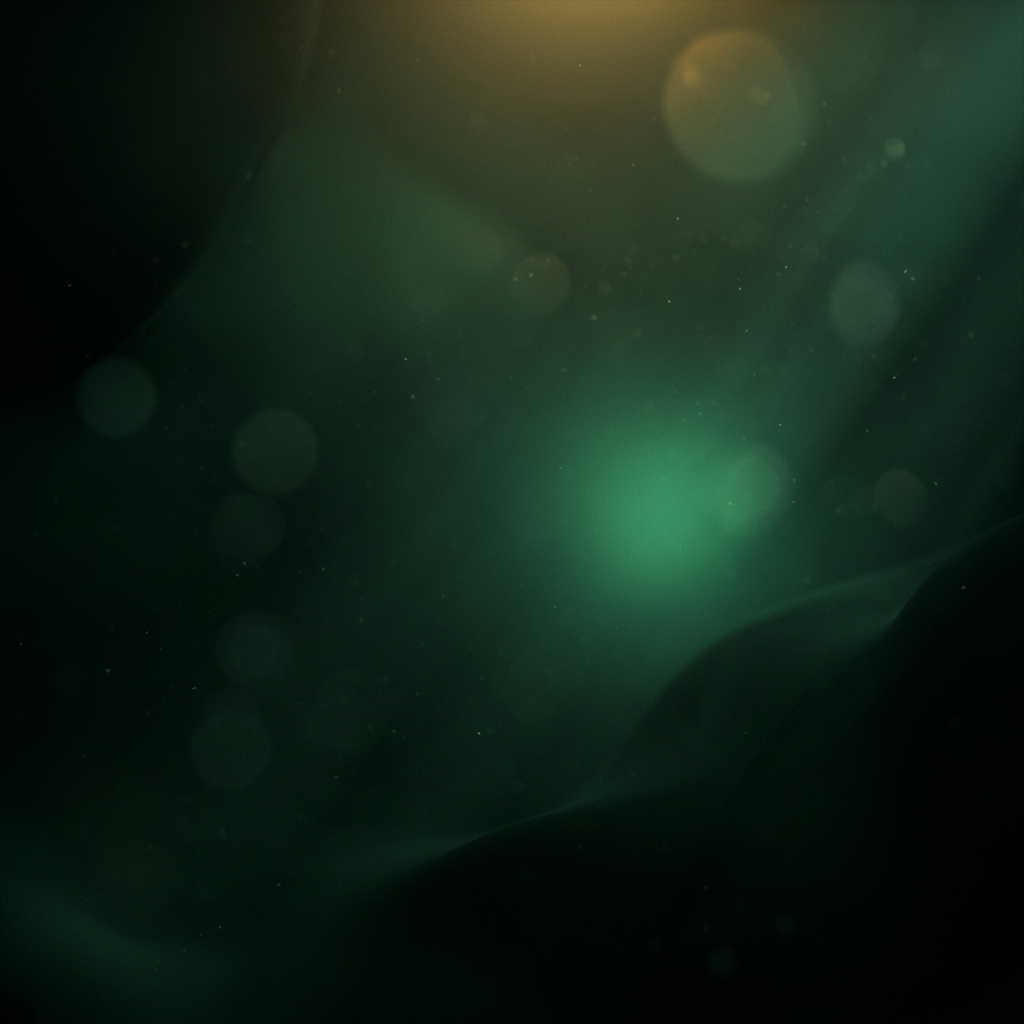
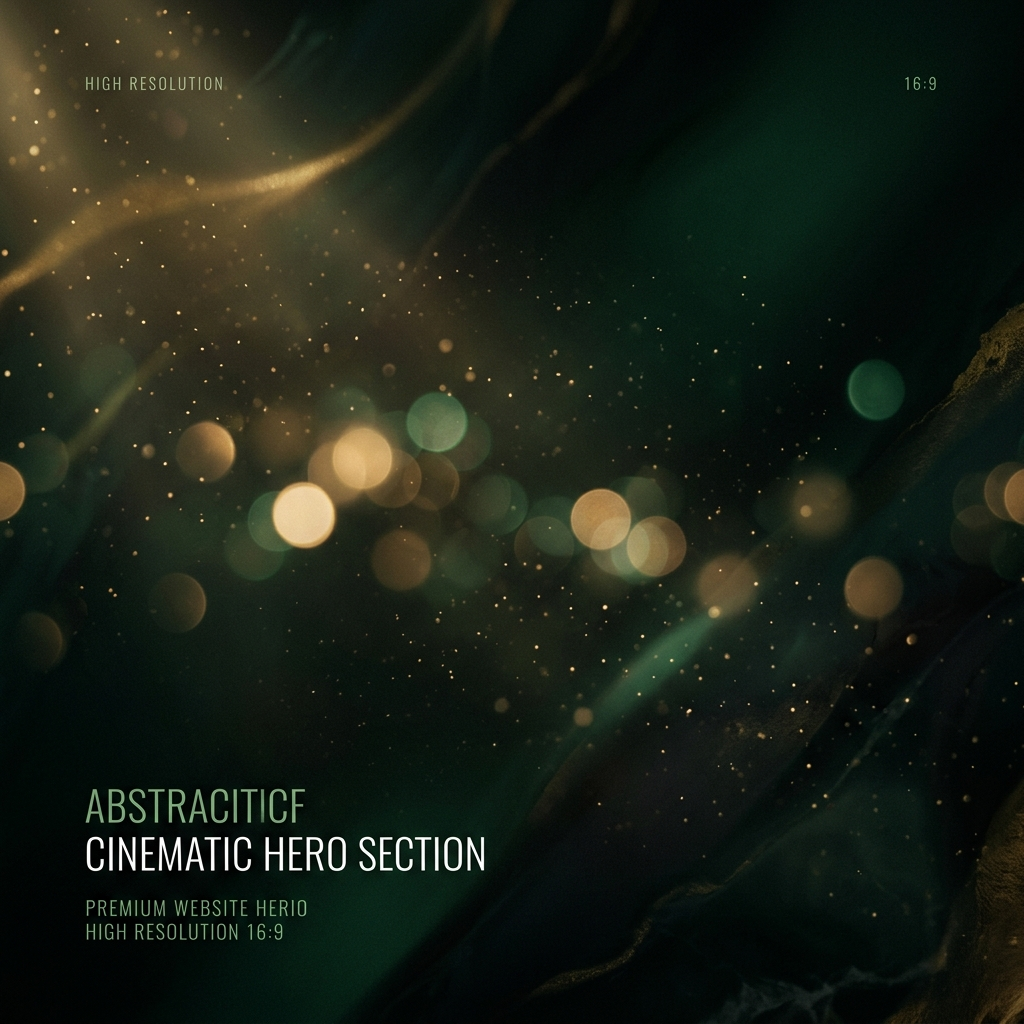
feat: translate category pages to EN and optimize mobile hero section + regenerate background

diff --git a/app/page.tsx b/app/page.tsx
@@ -78,10 +78,10 @@ export default async function HomePage() {
             <p className="mt-7 text-emerald-50/55 text-lg sm:text-xl font-medium leading-relaxed max-w-lg">
               {t.heroSubtitle}
             </p>
-            <div className="mt-9 flex flex-wrap items-center gap-3">
+            <div className="mt-9 flex flex-col sm:flex-row items-stretch sm:items-center gap-3.5">
               <a
                 href="#bestsellers"
-                className="group inline-flex items-center gap-2 bg-emerald-500 hover:bg-emerald-400 text-[#06120c] font-rubik font-black px-8 py-4 rounded-full shadow-lg shadow-emerald-500/20 transition-all hover:-translate-y-0.5 active:translate-y-0 cursor-pointer"
+                className="group inline-flex items-center justify-center gap-2 bg-emerald-500 hover:bg-emerald-400 text-[#06120c] font-rubik font-black px-8 py-4 rounded-full shadow-lg shadow-emerald-500/20 transition-all hover:-translate-y-0.5 active:translate-y-0 cursor-pointer text-center"
               >
                 {t.heroCtaPrimary}
                 <svg viewBox="0 0 24 24" fill="none" className="w-5 h-5 transition-transform group-hover:translate-x-1" stroke="currentColor" strokeWidth="2.5" strokeLinecap="round" strokeLinejoin="round">
@@ -90,14 +90,14 @@ export default async function HomePage() {
               </a>
               <Link
                 href="/bestsellers"
-                className="inline-flex items-center gap-2 text-white/85 font-bold px-7 py-4 rounded-full ring-1 ring-white/15 bg-white/5 backdrop-blur-sm hover:bg-white/10 transition-colors cursor-pointer"
+                className="inline-flex items-center justify-center gap-2 text-white/85 font-bold px-7 py-4 rounded-full ring-1 ring-white/15 bg-white/5 backdrop-blur-sm hover:bg-white/10 transition-colors cursor-pointer text-center"
               >
                 {t.heroCtaSecondary}
               </Link>
             </div>
 
             {/* Trust row */}
-            <div className="mt-10 flex items-center gap-6 sm:gap-8">
+            <div className="mt-10 flex items-center justify-between sm:justify-start gap-4 sm:gap-8">
               <div>
                 <p className="text-2xl font-rubik font-black text-white">120+</p>
                 <p className="text-xs text-emerald-100/50 font-bold uppercase tracking-wider">{t.trustProducts}</p>
@@ -120,19 +120,19 @@ export default async function HomePage() {
 
           {/* Right — featured product with glow + annotations */}
           {featured && (
-            <div className="relative hidden lg:block h-[540px]">
+            <div className="relative flex items-center justify-center lg:block h-[320px] sm:h-[420px] lg:h-[540px] mt-8 lg:mt-0 w-full max-w-[400px] lg:max-w-none mx-auto">
               {/* Neon ring glow */}
-              <div className="absolute left-1/2 top-1/2 -translate-x-1/2 -translate-y-1/2 w-[28rem] h-[28rem] rounded-full bg-emerald-400/25 blur-[100px]" />
-              <div className="absolute left-1/2 top-1/2 -translate-x-1/2 -translate-y-1/2 w-[24rem] h-[24rem] rounded-full ring-1 ring-emerald-300/30" />
-              <div className="absolute left-1/2 top-1/2 -translate-x-1/2 -translate-y-1/2 w-[30rem] h-[30rem] rounded-full ring-1 ring-white/5" />
+              <div className="absolute left-1/2 top-1/2 -translate-x-1/2 -translate-y-1/2 w-[18rem] h-[18rem] sm:w-[24rem] sm:h-[24rem] lg:w-[28rem] lg:h-[28rem] rounded-full bg-emerald-400/25 blur-[60px] sm:blur-[80px] lg:blur-[100px]" />
+              <div className="absolute left-1/2 top-1/2 -translate-x-1/2 -translate-y-1/2 w-[15rem] h-[15rem] sm:w-[20rem] sm:h-[20rem] lg:w-[24rem] lg:h-[24rem] rounded-full ring-1 ring-emerald-300/30" />
+              <div className="absolute left-1/2 top-1/2 -translate-x-1/2 -translate-y-1/2 w-[18rem] h-[18rem] sm:w-[25rem] sm:h-[25rem] lg:w-[30rem] lg:h-[30rem] rounded-full ring-1 ring-white/5" />
 
               {/* Featured image card */}
-              <div className="absolute left-1/2 top-1/2 -translate-x-1/2 -translate-y-1/2 w-[22rem] h-[22rem] rounded-[2rem] overflow-hidden ring-1 ring-white/15 shadow-2xl shadow-black/50 bg-white/5">
+              <div className="absolute left-1/2 top-1/2 -translate-x-1/2 -translate-y-1/2 w-[13rem] h-[13rem] sm:w-[18rem] sm:h-[18rem] lg:w-[22rem] lg:h-[22rem] rounded-[1.5rem] sm:rounded-[2rem] overflow-hidden ring-1 ring-white/15 shadow-2xl shadow-black/50 bg-white/5">
                 <Image
                   src={featured.image}
                   alt={featured.name}
                   fill
-                  sizes="360px"
+                  sizes="(max-w-768px) 200px, (max-w-1024px) 300px, 360px"
                   priority
                   className="object-cover"
                   referrerPolicy="no-referrer"
@@ -141,70 +141,63 @@ export default async function HomePage() {
               </div>
 
               {/* Rank badge */}
-              <div className="absolute left-1/2 top-1/2 -translate-x-[10.5rem] -translate-y-[10.5rem] flex items-center gap-1.5 bg-gradient-to-r from-amber-400 to-yellow-300 text-[#3a2a00] text-xs font-black px-3 py-1.5 rounded-full shadow-lg shadow-amber-500/30">
-                <svg viewBox="0 0 24 24" fill="currentColor" className="w-3.5 h-3.5"><path d="M12 2l3 7h7l-5.5 4.5L18 21l-6-4-6 4 1.5-7.5L2 9h7z" /></svg>
+              <div className="absolute left-1/2 top-1/2 -translate-x-[6.5rem] -translate-y-[6.5rem] sm:-translate-x-[8.5rem] sm:-translate-y-[8.5rem] lg:-translate-x-[10.5rem] lg:-translate-y-[10.5rem] flex items-center gap-1.5 bg-gradient-to-r from-amber-400 to-yellow-300 text-[#3a2a00] text-[10px] sm:text-xs font-black px-2.5 py-1 sm:px-3 sm:py-1.5 rounded-full shadow-lg shadow-amber-500/30">
+                <svg viewBox="0 0 24 24" fill="currentColor" className="w-3 h-3 sm:w-3.5 sm:h-3.5"><path d="M12 2l3 7h7l-5.5 4.5L18 21l-6-4-6 4 1.5-7.5L2 9h7z" /></svg>
                 {t.rankBadge}
               </div>
 
               {/* Annotation: rating (top-right) */}
-              <div className="absolute right-0 top-2 flex items-center gap-2">
-                <div className="bg-white/8 backdrop-blur-md ring-1 ring-white/15 rounded-xl px-3 py-2">
-                  <p className="text-[10px] text-emerald-100/60 font-bold uppercase tracking-wider">{t.annRating}</p>
-                  <p className="text-base font-rubik font-black text-white flex items-center gap-1">
-                    <svg viewBox="0 0 24 24" fill="#fbbf24" className="w-4 h-4"><path d="M12 2l3 7h7l-5.5 4.5L18 21l-6-4-6 4 1.5-7.5L2 9h7z" /></svg>
+              <div className="absolute right-0 sm:right-4 lg:right-0 top-4 sm:top-8 lg:top-2 flex items-center gap-1 sm:gap-2">
+                <div className="bg-white/8 backdrop-blur-md ring-1 ring-white/15 rounded-xl p-1.5 sm:px-3 sm:py-2">
+                  <p className="text-[8px] sm:text-[10px] text-emerald-100/60 font-bold uppercase tracking-wider">{t.annRating}</p>
+                  <p className="text-xs sm:text-base font-rubik font-black text-white flex items-center gap-1">
+                    <svg viewBox="0 0 24 24" fill="#fbbf24" className="w-3 h-3 sm:w-4 sm:h-4"><path d="M12 2l3 7h7l-5.5 4.5L18 21l-6-4-6 4 1.5-7.5L2 9h7z" /></svg>
                     {featured.rating}
                   </p>
                 </div>
-                <span className="h-px w-12 bg-gradient-to-r from-white/40 to-transparent" />
+                <span className="h-px w-8 sm:w-12 bg-gradient-to-r from-white/40 to-transparent" />
               </div>
 
               {/* Annotation: score (bottom-left) */}
-              <div className="absolute left-0 bottom-6 flex items-center gap-2">
-                <span className="h-px w-12 bg-gradient-to-l from-white/40 to-transparent order-2" />
-                <div className="bg-white/8 backdrop-blur-md ring-1 ring-white/15 rounded-xl px-3 py-2 order-1">
-                  <p className="text-[10px] text-emerald-100/60 font-bold uppercase tracking-wider">{t.annScore}</p>
-                  <p className="text-base font-rubik font-black text-emerald-300">{featured.score}/10</p>
+              <div className="absolute left-0 sm:left-4 lg:left-0 bottom-6 sm:bottom-10 lg:bottom-6 flex items-center gap-1 sm:gap-2">
+                <span className="h-px w-8 sm:w-12 bg-gradient-to-l from-white/40 to-transparent order-2" />
+                <div className="bg-white/8 backdrop-blur-md ring-1 ring-white/15 rounded-xl p-1.5 sm:px-3 sm:py-2 order-1">
+                  <p className="text-[8px] sm:text-[10px] text-emerald-100/60 font-bold uppercase tracking-wider">{t.annScore}</p>
+                  <p className="text-xs sm:text-base font-rubik font-black text-emerald-300">{featured.score}/10</p>
                 </div>
               </div>
 
               {/* Annotation: highlight pill (bottom-right) */}
               {featured.highlight && (
-                <div className="absolute right-6 bottom-2 bg-emerald-500/15 ring-1 ring-emerald-400/30 text-emerald-200 text-xs font-bold px-3 py-1.5 rounded-full backdrop-blur-sm">
-                  {featured.highlight}
+                <div className="absolute right-4 sm:right-10 lg:right-6 bottom-4 sm:bottom-8 lg:bottom-2 bg-emerald-500/15 ring-1 ring-emerald-400/30 text-emerald-200 text-[10px] sm:text-xs font-bold px-2.5 py-1 sm:px-3 sm:py-1.5 rounded-full backdrop-blur-sm">
+                  {lang === "en" ? "Best Seller" : featured.highlight}
                 </div>
               )}
 
               {/* Floating secondary product tiles */}
               {sideTiles[0] && (
-                <div className="absolute left-0 top-2 w-28 h-28 rounded-2xl overflow-hidden ring-1 ring-white/10 shadow-xl shadow-black/40 bg-white/5 rotate-[-8deg]">
-                  <Image src={sideTiles[0].image} alt="" fill sizes="112px" className="object-cover" referrerPolicy="no-referrer" />
+                <div className="absolute left-2 top-4 w-16 h-16 sm:w-24 sm:h-24 lg:w-28 lg:h-28 rounded-2xl overflow-hidden ring-1 ring-white/10 shadow-xl shadow-black/40 bg-white/5 rotate-[-8deg]">
+                  <Image src={sideTiles[0].image} alt="" fill sizes="(max-w-768px) 64px, 112px" className="object-cover" referrerPolicy="no-referrer" />
                 </div>
               )}
               {sideTiles[1] && (
-                <div className="absolute right-2 bottom-12 w-24 h-24 rounded-2xl overflow-hidden ring-1 ring-white/10 shadow-xl shadow-black/40 bg-white/5 rotate-[6deg]">
-                  <Image src={sideTiles[1].image} alt="" fill sizes="96px" className="object-cover" referrerPolicy="no-referrer" />
+                <div className="absolute right-4 bottom-16 w-14 h-14 sm:w-20 sm:h-20 lg:w-24 lg:h-24 rounded-2xl overflow-hidden ring-1 ring-white/10 shadow-xl shadow-black/40 bg-white/5 rotate-[6deg]">
+                  <Image src={sideTiles[1].image} alt="" fill sizes="(max-w-768px) 56px, 96px" className="object-cover" referrerPolicy="no-referrer" />
                 </div>
               )}
               {sideTiles[2] && (
-                <div className="absolute left-8 bottom-0 w-20 h-20 rounded-2xl overflow-hidden ring-1 ring-white/10 shadow-xl shadow-black/40 bg-white/5 rotate-[5deg]">
-                  <Image src={sideTiles[2].image} alt="" fill sizes="80px" className="object-cover" referrerPolicy="no-referrer" />
+                <div className="absolute left-8 bottom-2 w-12 h-12 sm:w-16 sm:h-16 lg:w-20 lg:h-20 rounded-2xl overflow-hidden ring-1 ring-white/10 shadow-xl shadow-black/40 bg-white/5 rotate-[5deg]">
+                  <Image src={sideTiles[2].image} alt="" fill sizes="(max-w-768px) 48px, 80px" className="object-cover" referrerPolicy="no-referrer" />
                 </div>
               )}
               {sideTiles[3] && (
-                <div className="absolute right-16 top-0 w-16 h-16 rounded-xl overflow-hidden ring-1 ring-white/10 shadow-xl shadow-black/40 bg-white/5 rotate-[-6deg]">
-                  <Image src={sideTiles[3].image} alt="" fill sizes="64px" className="object-cover" referrerPolicy="no-referrer" />
+                <div className="absolute right-12 top-2 w-10 h-10 sm:w-14 sm:h-14 lg:w-16 lg:h-16 rounded-xl overflow-hidden ring-1 ring-white/10 shadow-xl shadow-black/40 bg-white/5 rotate-[-6deg]">
+                  <Image src={sideTiles[3].image} alt="" fill sizes="(max-w-768px) 40px, 64px" className="object-cover" referrerPolicy="no-referrer" />
                 </div>
               )}
             </div>
           )}
         </div>
-
-        {/* Mobile featured */}
-        {featured && (
-          <div className="lg:hidden absolute -right-10 bottom-4 w-40 h-40 rounded-2xl overflow-hidden ring-1 ring-white/10 shadow-2xl shadow-black/50 opacity-40 rotate-6">
-            <Image src={featured.image} alt="" fill sizes="160px" className="object-cover" referrerPolicy="no-referrer" />
-          </div>
-        )}
       </section>
 
       {/* Stats Bar */}
@@ -271,7 +264,7 @@ export default async function HomePage() {
         
         <div className="grid gap-6">
           {bestsellers.slice(0, 3).map((product) => (
-            <ProductCard key={product.rank} product={product} />
+            <ProductCard key={product.rank} product={product} lang={lang} />
           ))}
         </div>
 

diff --git a/app/[category]/page.tsx b/app/[category]/page.tsx
@@ -5,6 +5,7 @@ import { Fragment } from "react";
 import ProductCard from "@/components/ProductCard";
 import AdBanner from "@/components/AdBanner";
 import type { Metadata } from "next";
+import { getLang, dict } from "@/lib/i18n";
 
 export async function generateStaticParams() {
   return categories.map((cat) => ({ category: cat.slug }));
@@ -18,9 +19,16 @@ export async function generateMetadata({
   const { category } = await params;
   const cat = getCategoryBySlug(category);
   if (!cat) return {};
+  const lang = await getLang();
+  
+  const catName = lang === "en" ? cat.nameEn : cat.name;
+  const catDesc = lang === "en" ? (cat.descriptionEn || cat.description) : cat.description;
+  
   return {
-    title: `Top 20 ${cat.name} บน Shopee ไทย`,
-    description: cat.description,
+    title: lang === "en"
+      ? `Top 20 Best ${catName} on Shopee Thailand`
+      : `Top 20 ${catName} บน Shopee ไทย`,
+    description: catDesc,
   };
 }
 
@@ -34,6 +42,11 @@ export default async function CategoryPage({
   if (!cat) notFound();
 
   const products = await getProducts(category);
+  const lang = await getLang();
+  const t = dict[lang];
+
+  const catName = lang === "en" ? cat.nameEn : cat.name;
+  const catDesc = lang === "en" ? (cat.descriptionEn || cat.description) : cat.description;
 
   return (
     <>
@@ -43,8 +56,8 @@ export default async function CategoryPage({
           __html: JSON.stringify({
             '@context': 'https://schema.org',
             '@type': 'ItemList',
-            name: `Top 20 ${cat.name}`,
-            description: cat.description,
+            name: lang === "en" ? `Top 20 Best ${catName}` : `Top 20 ${catName}`,
+            description: catDesc,
             numberOfItems: products.length,
             itemListElement: products.map((p) => ({
               '@type': 'ListItem',
@@ -82,9 +95,11 @@ export default async function CategoryPage({
             </div>
             <h1 className="text-3xl sm:text-4xl font-rubik font-black text-slate-900 flex items-center gap-3">
               <span className="drop-shadow-sm">{cat.icon}</span>
-              <span>Top 20 {cat.name}</span>
+              <span>
+                {lang === "en" ? `${t.categoryTitlePrefix} ${catName}` : `${t.categoryTitlePrefix} ${catName}`}
+              </span>
             </h1>
-            <p className="text-slate-500 font-medium mt-3 max-w-2xl leading-relaxed">{cat.description}</p>
+            <p className="text-slate-500 font-medium mt-3 max-w-2xl leading-relaxed">{catDesc}</p>
           </div>
           <div className="flex-shrink-0">
             <div className="bg-white border-2 border-slate-100 px-4 py-2 rounded-2xl shadow-sm flex items-center gap-3">
@@ -92,7 +107,7 @@ export default async function CategoryPage({
                 {products.length}
               </div>
               <div className="text-[11px] font-black uppercase tracking-wider text-slate-400">
-                รายการสินค้า<br />ที่คัดสรรแล้ว
+                {t.curatedBadgeLine1}<br />{t.curatedBadgeLine2}
               </div>
             </div>
           </div>
@@ -101,15 +116,15 @@ export default async function CategoryPage({
         {products.length === 0 ? (
           <div className="bg-white rounded-3xl border border-dashed border-slate-200 py-24 text-center">
             <p className="text-6xl mb-6 grayscale opacity-50">📦</p>
-            <h3 className="text-xl font-rubik font-black text-slate-900 mb-2">ยังไม่มีข้อมูลสินค้า</h3>
-            <p className="text-slate-400 font-medium">เรากำลังรวบรวมข้อมูลและจะอัพเดทให้เร็วๆ นี้</p>
+            <h3 className="text-xl font-rubik font-black text-slate-900 mb-2">{t.emptyCategoryTitle}</h3>
+            <p className="text-slate-400 font-medium">{t.emptyCategorySubtitle}</p>
           </div>
         ) : (
           <div className="grid grid-cols-2 gap-4">
             {products.map((product) => (
               <Fragment key={product.rank}>
                 <div className="relative">
-                  <ProductCard product={product} />
+                  <ProductCard product={product} lang={lang} />
                 </div>
                 {product.rank % 5 === 0 && (
                   <div className="col-span-2 py-4">

diff --git a/components/ProductCard.tsx b/components/ProductCard.tsx
@@ -1,4 +1,5 @@
 import { Product } from "@/lib/products";
+import { Lang } from "@/lib/i18n";
 
 const rankBadges: Record<number, string> = {
   1: "bg-gradient-to-br from-amber-300 to-amber-500 text-amber-900",
@@ -12,9 +13,18 @@ const cardAccents: Record<number, string> = {
   3: "ring-2 ring-orange-300",
 };
 
-export default function ProductCard({ product }: { product: Product }) {
+const getHighlightText = (highlight: string, lang: Lang) => {
+  if (lang !== "en") return highlight;
+  if (highlight === "ขายดีที่สุด") return "Best Seller";
+  if (highlight === "แนะนำ") return "Recommended";
+  if (highlight === "ยอดฮิต") return "Trending";
+  return highlight;
+};
+
+export default function ProductCard({ product, lang = "th" }: { product: Product; lang?: Lang }) {
   const badgeClass = rankBadges[product.rank] || "bg-slate-800 text-white";
   const accentClass = cardAccents[product.rank] || "";
+  const displayHighlight = getHighlightText(product.highlight, lang);
 
   return (
     <div className={`group bg-white rounded-2xl overflow-hidden shadow-sm hover:shadow-xl transition-all duration-300 ${accentClass}`}>
@@ -37,9 +47,9 @@ export default function ProductCard({ product }: { product: Product }) {
           {product.score}/10
         </div>
         {/* Highlight badge */}
-        {product.highlight && (
+        {displayHighlight && (
           <div className="absolute bottom-0 left-0 right-0 bg-[#f97316] text-white text-[10px] font-black text-center py-1.5 uppercase tracking-wider">
-            {product.highlight}
+            {displayHighlight}
           </div>
         )}
         {/* Discount badge */}
@@ -57,7 +67,7 @@ export default function ProductCard({ product }: { product: Product }) {
           <span className="text-amber-400">⭐</span>
           <span>{product.rating}</span>
           <span className="text-slate-200">|</span>
-          <span>ขายแล้ว {product.sold}</span>
+          <span>{lang === "en" ? "Sold" : "ขายแล้ว"} {product.sold}</span>
         </div>
 
         {/* Name */}

diff --git a/data/categories.ts b/data/categories.ts
@@ -6,6 +6,7 @@ export const categories = [
     icon: "🔥",
     image: "/icons/bestsellers.png",
     description: "Top 20 สินค้าขายดีที่สุดบน Shopee ประจำเดือนนี้",
+    descriptionEn: "Top 20 best-selling products on Shopee this month",
   },
   {
     slug: "home-goods",
@@ -14,6 +15,7 @@ export const categories = [
     icon: "🏠",
     image: "/icons/home-goods.png",
     description: "Top 20 เครื่องใช้ในบ้านยอดนิยม",
+    descriptionEn: "Top 20 popular home goods and essentials",
   },
   {
     slug: "women-fashion",
@@ -22,6 +24,7 @@ export const categories = [
     icon: "👗",
     image: "/icons/women-fashion.png",
     description: "Top 20 แฟชั่นผู้หญิงที่กำลังมาแรง",
+    descriptionEn: "Top 20 trending women's fashion and apparel",
   },
   {
     slug: "pets",
@@ -30,6 +33,7 @@ export const categories = [
     icon: "🐾",
     image: "/icons/pets.png",
     description: "Top 20 สินค้าสัตว์เลี้ยงขายดี",
+    descriptionEn: "Top 20 best-selling pet supplies and accessories",
   },
   {
     slug: "food-drinks",
@@ -38,6 +42,7 @@ export const categories = [
     icon: "🍜",
     image: "/icons/food-drinks.png",
     description: "Top 20 อาหารและเครื่องดื่มยอดฮิต",
+    descriptionEn: "Top 20 popular food and beverage items",
   },
   {
     slug: "home-appliances",
@@ -46,6 +51,7 @@ export const categories = [
     icon: "⚡",
     image: "/icons/home-appliances.png",
     description: "Top 20 เครื่องใช้ไฟฟ้าขายดีที่สุด",
+    descriptionEn: "Top 20 best-selling home appliances",
   },
 ];
 

diff --git a/lib/i18n.ts b/lib/i18n.ts
@@ -13,6 +13,14 @@ export const dict = {
     updateBadge: "อัพเดท: พฤษภาคม 2026",
     navHome: "หน้าแรก",
 
+    categoryTitlePrefix: "Top 20",
+    categoryTitleSuffix: "บน Shopee ไทย",
+    curatedBadgeLine1: "รายการสินค้า",
+    curatedBadgeLine2: "ที่คัดสรรแล้ว",
+    emptyCategoryTitle: "ยังไม่มีข้อมูลสินค้า",
+    emptyCategorySubtitle: "เรากำลังรวบรวมข้อมูลและจะอัพเดทให้เร็วๆ นี้",
+    soldText: "ขายแล้ว",
+
     heroBadge: "อัพเดทพฤษภาคม 2026",
     heroTitle1: "สินค้าขายดี",
     heroTitle2: "ตัวจริงเสียงจริง",
@@ -56,6 +64,14 @@ export const dict = {
     brandTagline: "Premium Ranking Hub",
     updateBadge: "Updated: May 2026",
     navHome: "Home",
+
+    categoryTitlePrefix: "Top 20 Best",
+    categoryTitleSuffix: "on Shopee Thailand",
+    curatedBadgeLine1: "Curated",
+    curatedBadgeLine2: "Products",
+    emptyCategoryTitle: "No Products Found",
+    emptyCategorySubtitle: "We are currently curating the products. Please check back soon!",
+    soldText: "Sold",
 
     heroBadge: "Updated May 2026",
     heroTitle1: "Best Sellers",
